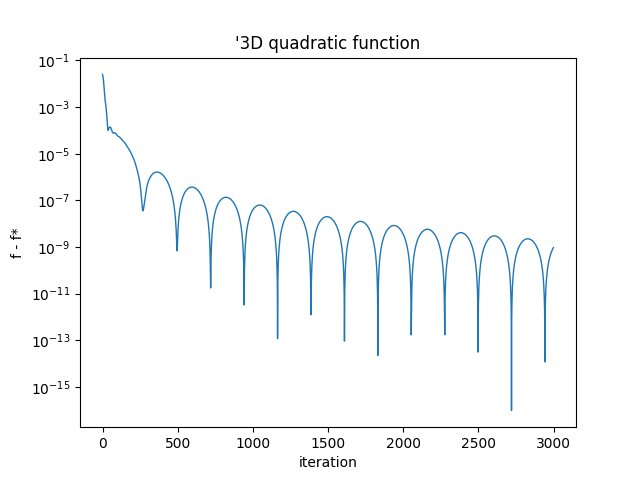
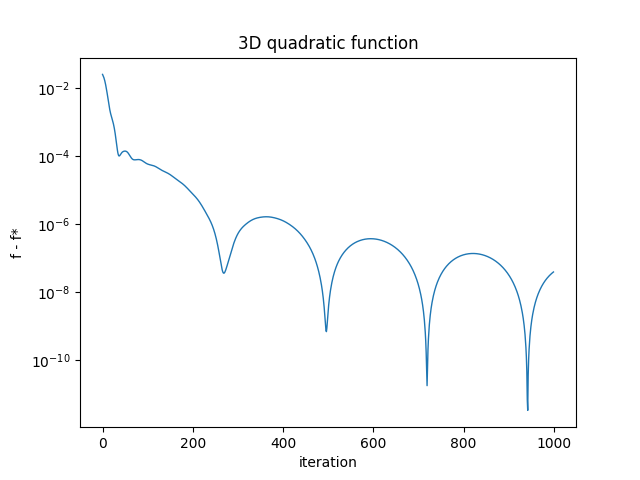
fix title of 3d

diff --git a/run_ex1_3d.py b/run_ex1_3d.py
@@ -37,6 +37,6 @@ if __name__ == "__main__":
     plt.plot(t, fs, linewidth=1)
     plt.xlabel("iteration")
     plt.ylabel("f - f*")
-    plt.title("'3D quadratic function")
+    plt.title("3D quadratic function")
     plt.savefig("plots/three_D_simple.png")
     plt.show()
